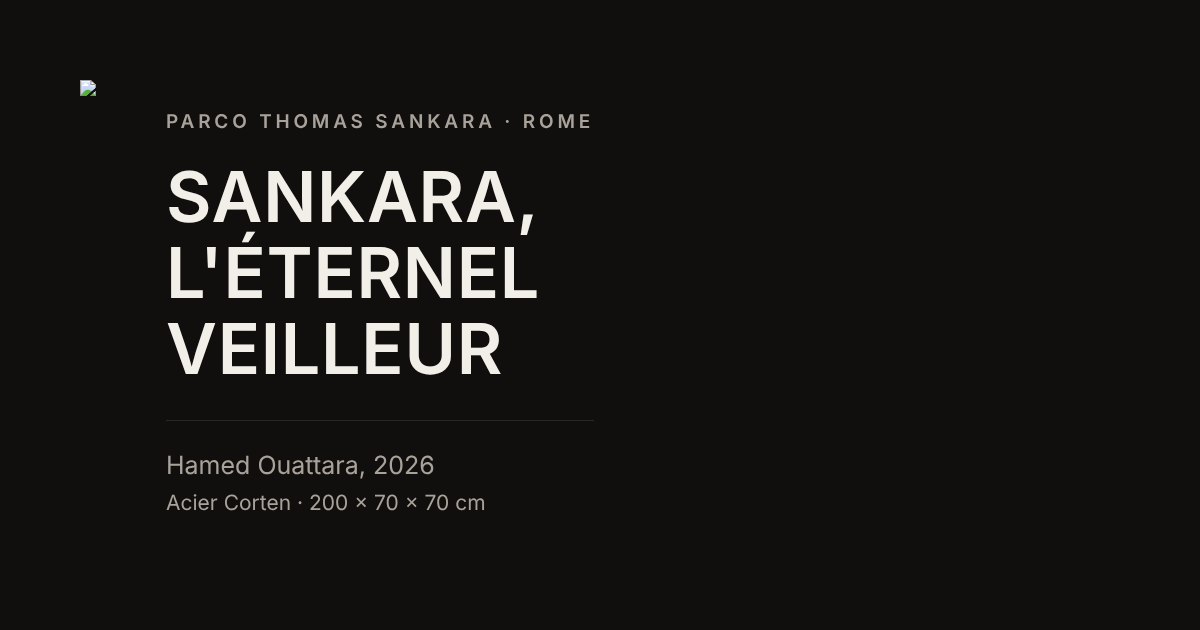
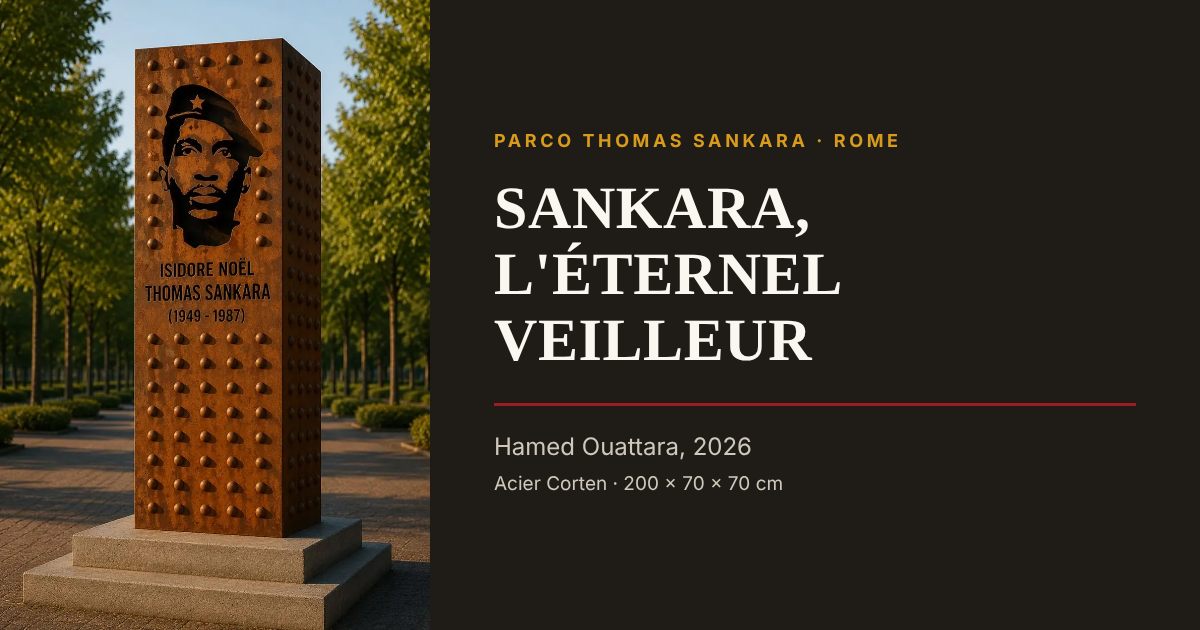
Installe le rendu d'implantation, le parc de Rome et Bobodioulasso
Nouveaux visuels
- Le rendu d'implantation du monument devient l'image d'ouverture du site
  et celle du partage sur les réseaux. Sa légende dit ce qu'il est : une
  vue de principe, antérieure à la fabrication. Elle porte en effet une
  version plus ancienne de l'inscription, avec tréma et parenthèses, que
  l'oeuvre réalisée ne reprend pas. Le dire est plus sûr que de l'ignorer.
- Le Parco Thomas Sankara entre dans la page d'histoire : la plaque Via
  Ugo della Seta et la rencontre préparatoire portée par l'Ambassade du
  Burkina Faso à Rome, en collaboration avec le Camarade Ministre de la
  Communication, de la Culture, des Arts et du Tourisme, avec des
  délégués du Haut Conseil des Burkinabè de l'Étranger. Les personnes ne
  sont pas nommées tant que les qualités ne sont pas confirmées.
- Bobodioulasso, 2022, rejoint la page de l'artiste : la même trame de
  bossages, quatre ans avant le monument, montre que le langage n'est pas
  né à Rome.

Poids
L'image d'ouverture est servie en deux largeurs. Sur un téléphone de
390 px le navigateur prend la variante de 600 px : la page d'accueil
passe de 152 à 69 Ko en gzip, soit 55 pour cent de moins pour le public
qui paie ses données au volume.

Deux correctifs
- Le remplacement global de /maquettes/ par /galerie/ avait aussi réécrit
  le chemin de l'image de l'artiste ; le remplacement suivant ne trouvait
  plus sa cible et n'a rien fait, sans rien signaler. La photographie
  réelle est rétablie.
[…]

diff --git a/public/artiste/index.html b/public/artiste/index.html
@@ -139,8 +139,8 @@
 
     <figure style="margin-top:2rem;max-width:26rem">
       <div class="figure__cadre">
-        <img src="/assets/img/galerie/11-artiste.svg" width="900" height="1200"
-             alt="Hamed Ouattara, artiste designer burkinabè, auteur de SANKARA, L'ÉTERNEL VEILLEUR, dans son atelier du Studio Hamed Ouattara à Ouagadougou."
+        <img src="/assets/img/oeuvre/02-artiste-oeuvre.webp" width="1088" height="1445"
+             alt="Hamed Ouattara, artiste designer burkinabè, auteur de SANKARA, L'ÉTERNEL VEILLEUR, debout auprès de l'œuvre en acier brut dans l'atelier de Bologne."
              loading="lazy" decoding="async">
       </div>
       <figcaption>Hamed Ouattara auprès de l'œuvre, atelier de Bologne.</figcaption>
@@ -197,6 +197,30 @@
       <a class="appel appel--sobre" href="https://hamedouattara.com" rel="me">hamedouattara.com</a>
       <a class="appel appel--sobre" href="https://studiohamedouattara.com" rel="me">studiohamedouattara.com</a>
     </p>
+  </div>
+</section>
+
+<section class="section section--teinte">
+  <div class="enveloppe">
+    <h2>Le langage des bossages, avant le monument</h2>
+    <div class="prose">
+      <p>Les demi-sphères frappées dans l'acier ne sont pas nées avec le monument de Rome. Elles
+      constituent depuis plus de vingt ans le langage de l'atelier, et viennent des grandes
+      architectures de terre soudano-sahéliennes&nbsp;: Djenné, Tombouctou, Bobo-Dioulasso.</p>
+    </div>
+    <figure style="max-width:34rem">
+      <div class="figure__cadre">
+        <img src="/assets/img/atelier/01-bobodioulasso.webp" width="748" height="549"
+             alt="Bobodioulasso, meuble sculptural de Hamed Ouattara réalisé en 2022 à partir de tôles de barils d'huile de moteur récupérées, couvert de la même trame de bossages hémisphériques que le monument Thomas Sankara."
+             loading="lazy" decoding="async">
+      </div>
+      <figcaption>
+        <em>Bobodioulasso (Ville du Burkina Faso)</em>, collection Boli Bana, 2022. Deux portières,
+        trois étagères et trois pieds, réutilisation de tôles de barils d'huile de moteur,
+        90 × 202&nbsp;cm.
+        <span class="credit">Hamed Ouattara, 2022</span>
+      </figcaption>
+    </figure>
     <p class="suite"><a href="/oeuvre/">Revenir à l'œuvre</a></p>
   </div>
 </section>

diff --git a/contenu/fr/06-artiste.html b/contenu/fr/06-artiste.html
@@ -21,8 +21,8 @@
 
     <figure style="margin-top:2rem;max-width:26rem">
       <div class="figure__cadre">
-        <img src="/assets/img/galerie/11-artiste.svg" width="900" height="1200"
-             alt="Hamed Ouattara, artiste designer burkinabè, auteur de SANKARA, L'ÉTERNEL VEILLEUR, dans son atelier du Studio Hamed Ouattara à Ouagadougou."
+        <img src="/assets/img/oeuvre/02-artiste-oeuvre.webp" width="1088" height="1445"
+             alt="Hamed Ouattara, artiste designer burkinabè, auteur de SANKARA, L'ÉTERNEL VEILLEUR, debout auprès de l'œuvre en acier brut dans l'atelier de Bologne."
              loading="lazy" decoding="async">
       </div>
       <figcaption>Hamed Ouattara auprès de l'œuvre, atelier de Bologne.</figcaption>
@@ -79,6 +79,30 @@
       <a class="appel appel--sobre" href="https://hamedouattara.com" rel="me">hamedouattara.com</a>
       <a class="appel appel--sobre" href="https://studiohamedouattara.com" rel="me">studiohamedouattara.com</a>
     </p>
+  </div>
+</section>
+
+<section class="section section--teinte">
+  <div class="enveloppe">
+    <h2>Le langage des bossages, avant le monument</h2>
+    <div class="prose">
+      <p>Les demi-sphères frappées dans l'acier ne sont pas nées avec le monument de Rome. Elles
+      constituent depuis plus de vingt ans le langage de l'atelier, et viennent des grandes
+      architectures de terre soudano-sahéliennes&nbsp;: Djenné, Tombouctou, Bobo-Dioulasso.</p>
+    </div>
+    <figure style="max-width:34rem">
+      <div class="figure__cadre">
+        <img src="/assets/img/atelier/01-bobodioulasso.webp" width="748" height="549"
+             alt="Bobodioulasso, meuble sculptural de Hamed Ouattara réalisé en 2022 à partir de tôles de barils d'huile de moteur récupérées, couvert de la même trame de bossages hémisphériques que le monument Thomas Sankara."
+             loading="lazy" decoding="async">
+      </div>
+      <figcaption>
+        <em>Bobodioulasso (Ville du Burkina Faso)</em>, collection Boli Bana, 2022. Deux portières,
+        trois étagères et trois pieds, réutilisation de tôles de barils d'huile de moteur,
+        90 × 202&nbsp;cm.
+        <span class="credit">Hamed Ouattara, 2022</span>
+      </figcaption>
+    </figure>
     <p class="suite"><a href="/oeuvre/">Revenir à l'œuvre</a></p>
   </div>
 </section>

diff --git a/public/histoire/index.html b/public/histoire/index.html
@@ -196,6 +196,42 @@
   </div>
 </section>
 
+<section class="section section--teinte">
+  <div class="enveloppe">
+    <h2>Le parc, à Rome</h2>
+    <p class="chapeau">Via Ugo della Seta, dans le III<sup>e</sup> Municipio. La plaque porte
+    «&nbsp;PARCO THOMAS SANKARA (1949&nbsp;-&nbsp;1987) — PRESIDENTE DEL BURKINA FASO&nbsp;».</p>
+    <div class="galerie">
+      <figure>
+        <div class="figure__cadre">
+          <img src="/assets/img/parc/01-parco-thomas-sankara.webp" width="950" height="1267"
+               alt="La plaque du Parco Thomas Sankara, Via Ugo della Seta à Rome, portant PARCO THOMAS SANKARA 1949-1987 PRESIDENTE DEL BURKINA FASO, devant l'affiche de la rencontre préparatoire organisée par l'Ambassade du Burkina Faso à Rome."
+               loading="lazy" decoding="async">
+        </div>
+        <figcaption>La plaque du parc et l'affiche de la rencontre préparatoire.
+        <span class="credit">Parco Thomas Sankara, Rome, juin 2026</span></figcaption>
+      </figure>
+      <figure>
+        <div class="figure__cadre">
+          <img src="/assets/img/parc/02-rencontre-parc.webp" width="1050" height="788"
+               alt="Rencontre préparatoire au Parco Thomas Sankara de Rome : des représentants de la communauté burkinabè s'adressent à la presse devant la plaque du parc et les drapeaux du Burkina Faso."
+               loading="lazy" decoding="async">
+        </div>
+        <figcaption>La rencontre préparatoire, devant la plaque du parc.
+        <span class="credit">Parco Thomas Sankara, Rome, juin 2026</span></figcaption>
+      </figure>
+    </div>
+    <!-- À COMPLÉTER : les noms et qualités des personnes photographiées, pour
+         les porter en légende, et l'intitulé exact de la rencontre. Ne rien
+         nommer tant que ce n'est pas confirmé. -->
+    <div class="prose">
+      <p>La rencontre a été organisée par l'Ambassade du Burkina Faso à Rome, en collaboration
+      avec le Camarade Ministre de la Communication, de la Culture, des Arts et du Tourisme, avec
+      la participation de délégués du Haut Conseil des Burkinabè de l'Étranger.</p>
+    </div>
+  </div>
+</section>
+
 <section class="section">
   <div class="enveloppe">
     <h2>Pourquoi ce n'est pas une statue</h2>

diff --git a/contenu/fr/04-histoire.html b/contenu/fr/04-histoire.html
@@ -45,6 +45,42 @@
   </div>
 </section>
 
+<section class="section section--teinte">
+  <div class="enveloppe">
+    <h2>Le parc, à Rome</h2>
+    <p class="chapeau">Via Ugo della Seta, dans le III<sup>e</sup> Municipio. La plaque porte
+    «&nbsp;PARCO THOMAS SANKARA (1949&nbsp;-&nbsp;1987) — PRESIDENTE DEL BURKINA FASO&nbsp;».</p>
+    <div class="galerie">
+      <figure>
+        <div class="figure__cadre">
+          <img src="/assets/img/parc/01-parco-thomas-sankara.webp" width="950" height="1267"
+               alt="La plaque du Parco Thomas Sankara, Via Ugo della Seta à Rome, portant PARCO THOMAS SANKARA 1949-1987 PRESIDENTE DEL BURKINA FASO, devant l'affiche de la rencontre préparatoire organisée par l'Ambassade du Burkina Faso à Rome."
+               loading="lazy" decoding="async">
+        </div>
+        <figcaption>La plaque du parc et l'affiche de la rencontre préparatoire.
+        <span class="credit">Parco Thomas Sankara, Rome, juin 2026</span></figcaption>
+      </figure>
+      <figure>
+        <div class="figure__cadre">
+          <img src="/assets/img/parc/02-rencontre-parc.webp" width="1050" height="788"
+               alt="Rencontre préparatoire au Parco Thomas Sankara de Rome : des représentants de la communauté burkinabè s'adressent à la presse devant la plaque du parc et les drapeaux du Burkina Faso."
+               loading="lazy" decoding="async">
+        </div>
+        <figcaption>La rencontre préparatoire, devant la plaque du parc.
+        <span class="credit">Parco Thomas Sankara, Rome, juin 2026</span></figcaption>
+      </figure>
+    </div>
+    <!-- À COMPLÉTER : les noms et qualités des personnes photographiées, pour
+         les porter en légende, et l'intitulé exact de la rencontre. Ne rien
+         nommer tant que ce n'est pas confirmé. -->
+    <div class="prose">
+      <p>La rencontre a été organisée par l'Ambassade du Burkina Faso à Rome, en collaboration
+      avec le Camarade Ministre de la Communication, de la Culture, des Arts et du Tourisme, avec
+      la participation de délégués du Haut Conseil des Burkinabè de l'Étranger.</p>
+    </div>
+  </div>
+</section>
+
 <section class="section">
   <div class="enveloppe">
     <h2>Pourquoi ce n'est pas une statue</h2>

diff --git a/public/galerie/index.html b/public/galerie/index.html
@@ -162,6 +162,26 @@
 
 <section class="section">
   <div class="enveloppe">
+    <h2>Le monument dans le parc</h2>
+    <p class="chapeau">Vue de principe du monument dressé sur son socle de béton à gradins. Ce
+    rendu est antérieur à la fabrication&nbsp;: il porte une version plus ancienne de
+    l'inscription, avec tréma et parenthèses, que l'œuvre réalisée ne reprend pas.</p>
+    <figure style="max-width:34rem">
+      <div class="figure__cadre">
+        <img src="/assets/img/oeuvre/00-rendu-implantation.webp" width="1000" height="1250"
+             alt="Rendu d'implantation de SANKARA, L'ÉTERNEL VEILLEUR de Hamed Ouattara : le prisme d'acier Corten dressé sur son socle de béton à gradins dans une allée plantée d'arbres, la face portrait tournée vers l'allée."
+             fetchpriority="high" decoding="async">
+      </div>
+      <figcaption>
+        Rendu d'implantation, antérieur à la fabrication.
+        <span class="credit"><em>SANKARA, L'ÉTERNEL VEILLEUR</em>, Hamed Ouattara, 2026, acier Corten</span>
+      </figcaption>
+    </figure>
+  </div>
+</section>
+
+<section class="section section--teinte">
+  <div class="enveloppe">
     <h2>Le monument achevé</h2>
     <p class="chapeau">L'acier Corten a pris sa première oxydation. Il continuera de foncer et de
     se stabiliser au fil des années, sous la pluie et le soleil de Rome.</p>
@@ -192,7 +212,7 @@
   </div>
 </section>
 
-<section class="section section--teinte">
+<section class="section">
   <div class="enveloppe">
     <h2>L'atelier de Bologne</h2>
     <p class="chapeau">Les tôles ont été découpées au laser et les bossages formés par des
@@ -225,7 +245,7 @@
   </div>
 </section>
 
-<section class="section">
+<section class="section section--teinte">
   <div class="enveloppe">
     <h2>Le plan de la face portrait</h2>
     <p class="chapeau">Le document de fabrication transmis aux ateliers, coté au millimètre&nbsp;:
@@ -246,7 +266,7 @@
   </div>
 </section>
 
-<section class="section section--teinte">
+<section class="section">
   <div class="enveloppe">
     <h2>Après l'installation</h2>
     <div class="prose">

diff --git a/contenu/fr/07-galerie.html b/contenu/fr/07-galerie.html
@@ -21,6 +21,26 @@
 
 <section class="section">
   <div class="enveloppe">
+    <h2>Le monument dans le parc</h2>
+    <p class="chapeau">Vue de principe du monument dressé sur son socle de béton à gradins. Ce
+    rendu est antérieur à la fabrication&nbsp;: il porte une version plus ancienne de
+    l'inscription, avec tréma et parenthèses, que l'œuvre réalisée ne reprend pas.</p>
+    <figure style="max-width:34rem">
+      <div class="figure__cadre">
+        <img src="/assets/img/oeuvre/00-rendu-implantation.webp" width="1000" height="1250"
+             alt="Rendu d'implantation de SANKARA, L'ÉTERNEL VEILLEUR de Hamed Ouattara : le prisme d'acier Corten dressé sur son socle de béton à gradins dans une allée plantée d'arbres, la face portrait tournée vers l'allée."
+             fetchpriority="high" decoding="async">
+      </div>
+      <figcaption>
+        Rendu d'implantation, antérieur à la fabrication.
+        <span class="credit"><em>SANKARA, L'ÉTERNEL VEILLEUR</em>, Hamed Ouattara, 2026, acier Corten</span>
+      </figcaption>
+    </figure>
+  </div>
+</section>
+
+<section class="section section--teinte">
+  <div class="enveloppe">
     <h2>Le monument achevé</h2>
     <p class="chapeau">L'acier Corten a pris sa première oxydation. Il continuera de foncer et de
     se stabiliser au fil des années, sous la pluie et le soleil de Rome.</p>
@@ -51,7 +71,7 @@
   </div>
 </section>
 
-<section class="section section--teinte">
+<section class="section">
   <div class="enveloppe">
     <h2>L'atelier de Bologne</h2>
     <p class="chapeau">Les tôles ont été découpées au laser et les bossages formés par des
@@ -84,7 +104,7 @@
   </div>
 </section>
 
-<section class="section">
+<section class="section section--teinte">
   <div class="enveloppe">
     <h2>Le plan de la face portrait</h2>
     <p class="chapeau">Le document de fabrication transmis aux ateliers, coté au millimètre&nbsp;:
@@ -105,7 +125,7 @@
   </div>
 </section>
 
-<section class="section section--teinte">
+<section class="section">
   <div class="enveloppe">
     <h2>Après l'installation</h2>
     <div class="prose">

diff --git a/public/index.html b/public/index.html
@@ -201,11 +201,14 @@
 
     <figure class="banniere__figure">
       <img class="banniere__image"
-           src="/assets/img/oeuvre/01-monument-corten.webp" width="1200" height="1594"
-           alt="SANKARA, L'ÉTERNEL VEILLEUR, sculpture monumentale en acier Corten de Hamed Ouattara, achevée : un prisme rectangulaire dont une face porte le portrait du Camarade Président Thomas Sankara découpé au travers de la tôle, au-dessus de son nom et de ses dates, les faces voisines couvertes de bossages hémisphériques."
+           src="/assets/img/oeuvre/00-rendu-implantation.webp" width="1000" height="1250"
+           srcset="/assets/img/oeuvre/00-rendu-implantation-600.webp 600w,
+                   /assets/img/oeuvre/00-rendu-implantation.webp 1000w"
+           sizes="(min-width: 58em) 38vw, 100vw"
+           alt="Rendu d'implantation de SANKARA, L'ÉTERNEL VEILLEUR de Hamed Ouattara : le prisme d'acier Corten dressé sur son socle de béton à gradins, dans une allée plantée d'arbres. La face visible porte le portrait du Camarade Président Thomas Sankara découpé au travers de la tôle, au-dessus de son nom et de ses dates, entouré de bossages hémisphériques."
            fetchpriority="high" decoding="async">
-      <figcaption class="banniere__credit">Le monument achevé, acier Corten oxydé, Bologne —
-      <em>SANKARA, L'ÉTERNEL VEILLEUR</em>, Hamed Ouattara, 2026</figcaption>
+      <figcaption class="banniere__credit">Rendu d'implantation — vue de principe, antérieure à la
+      fabrication. <em>SANKARA, L'ÉTERNEL VEILLEUR</em>, Hamed Ouattara, 2026, acier Corten</figcaption>
     </figure>
   </div>
 </section>

diff --git a/contenu/fr/00-accueil.html b/contenu/fr/00-accueil.html
@@ -40,11 +40,14 @@
 
     <figure class="banniere__figure">
       <img class="banniere__image"
-           src="/assets/img/oeuvre/01-monument-corten.webp" width="1200" height="1594"
-           alt="SANKARA, L'ÉTERNEL VEILLEUR, sculpture monumentale en acier Corten de Hamed Ouattara, achevée : un prisme rectangulaire dont une face porte le portrait du Camarade Président Thomas Sankara découpé au travers de la tôle, au-dessus de son nom et de ses dates, les faces voisines couvertes de bossages hémisphériques."
+           src="/assets/img/oeuvre/00-rendu-implantation.webp" width="1000" height="1250"
+           srcset="/assets/img/oeuvre/00-rendu-implantation-600.webp 600w,
+                   /assets/img/oeuvre/00-rendu-implantation.webp 1000w"
+           sizes="(min-width: 58em) 38vw, 100vw"
+           alt="Rendu d'implantation de SANKARA, L'ÉTERNEL VEILLEUR de Hamed Ouattara : le prisme d'acier Corten dressé sur son socle de béton à gradins, dans une allée plantée d'arbres. La face visible porte le portrait du Camarade Président Thomas Sankara découpé au travers de la tôle, au-dessus de son nom et de ses dates, entouré de bossages hémisphériques."
            fetchpriority="high" decoding="async">
-      <figcaption class="banniere__credit">Le monument achevé, acier Corten oxydé, Bologne —
-      <em>SANKARA, L'ÉTERNEL VEILLEUR</em>, Hamed Ouattara, 2026</figcaption>
+      <figcaption class="banniere__credit">Rendu d'implantation — vue de principe, antérieure à la
+      fabrication. <em>SANKARA, L'ÉTERNEL VEILLEUR</em>, Hamed Ouattara, 2026, acier Corten</figcaption>
     </figure>
   </div>
 </section>

diff --git a/outils/verification/navigateur.js b/outils/verification/navigateur.js
@@ -20,7 +20,7 @@ const BASE = process.env.BASE || "http://127.0.0.1:8765";
 // Phase 1 : la visite virtuelle et la galerie attendent l'inauguration.
 // Les contrôles de la visite ne s'exécutent que si la page est publiée.
 const PAGES = ["/", "/oeuvre/", "/nombres/", "/histoire/", "/thomas-sankara/",
-               "/artiste/", "/maquettes/", "/journal/", "/institutionnel/",
+               "/artiste/", "/galerie/", "/journal/", "/institutionnel/",
                "/contact/", "/404.html"];
 
 let echecs = 0;

diff --git a/outils/verifier.py b/outils/verifier.py
@@ -169,6 +169,15 @@ def verifier_page(fichier):
         if not cible_existe(href):
             anomalies.append("%s : lien interne cassé — %s" % (rel, href))
 
+    # Une image absente ne se voit pas dans le code : elle se voit sur la page,
+    # trop tard. On la cherche ici.
+    for img in s.images:
+        src = img.get("src", "")
+        if not src or src.startswith(("http://", "https://", "data:")):
+            continue
+        if not cible_existe(src):
+            anomalies.append("%s : image introuvable — %s" % (rel, src))
+
     # Le pied de page porte la mention obligatoire de l'auteur sur chaque page.
     if "Hamed Ouattara" not in brut:
         anomalies.append("%s : le nom de l'auteur ne figure pas sur la page" % rel)
